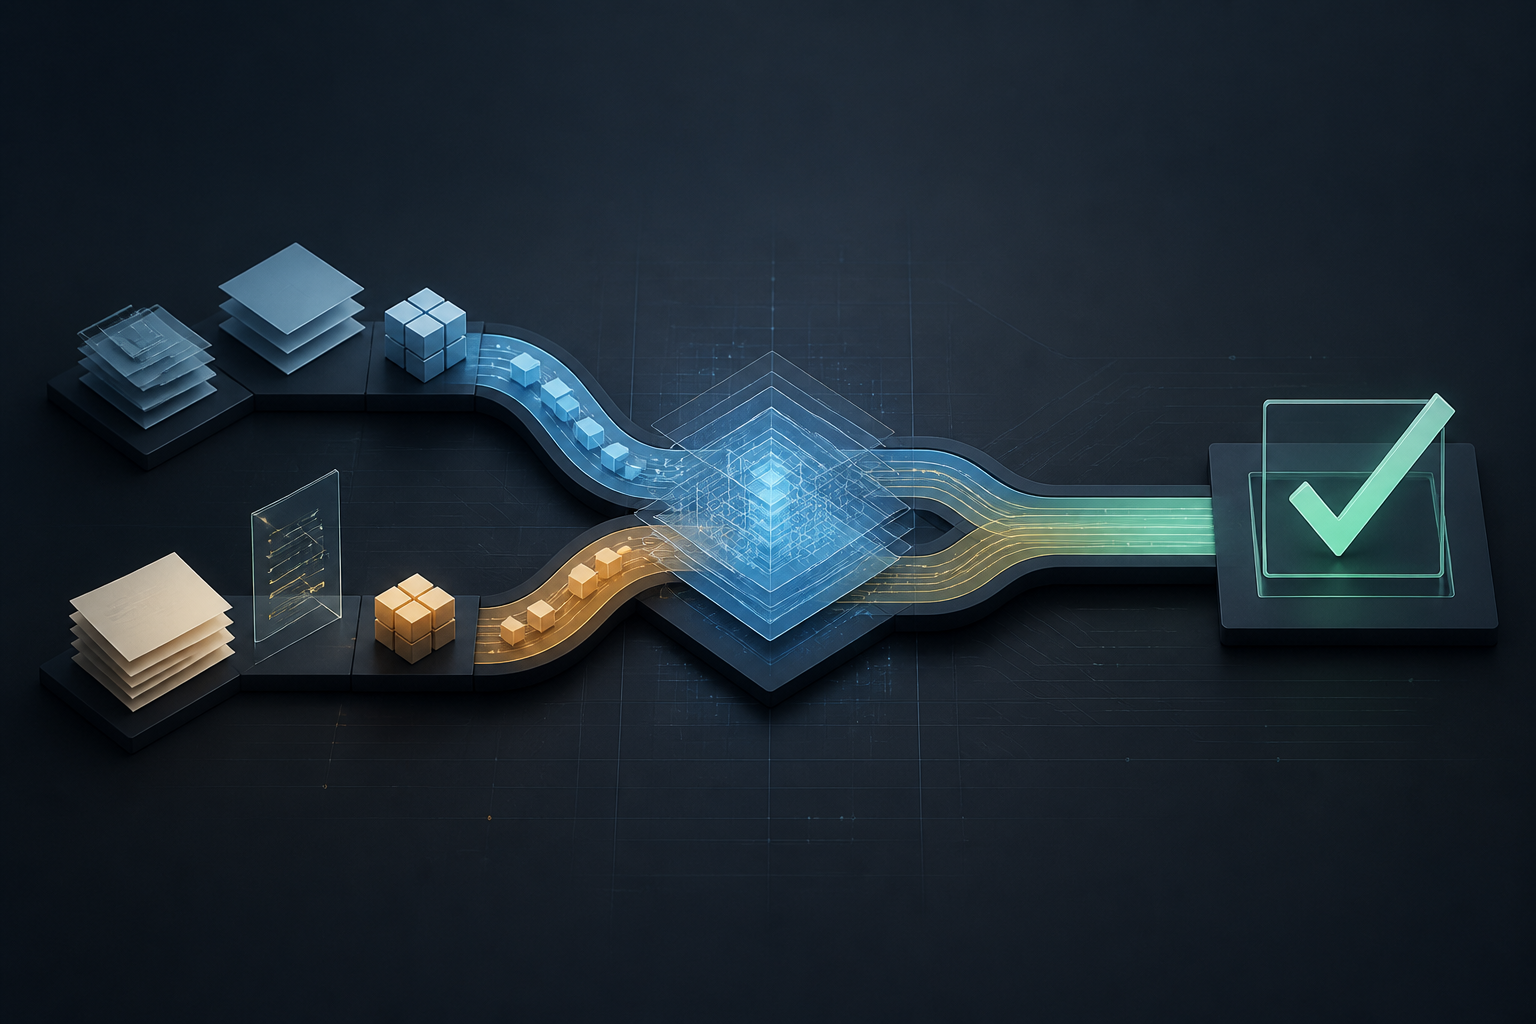
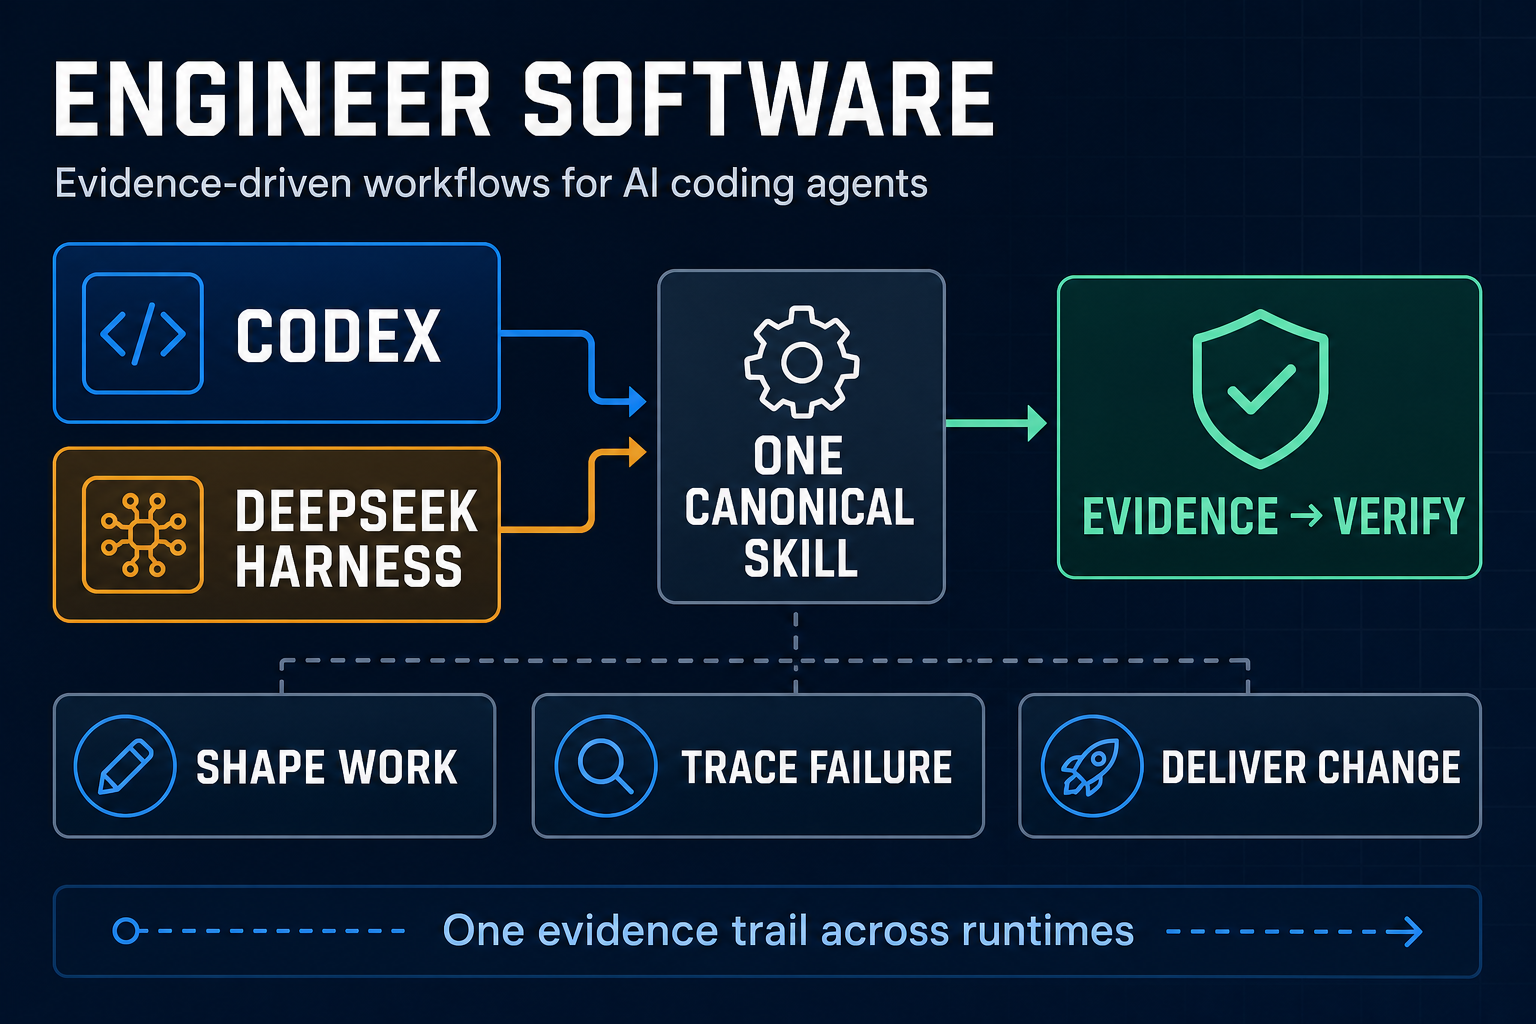
docs: update runtime-neutral cover asset

diff --git a/README.md b/README.md
@@ -10,7 +10,7 @@ structural redundancy, or draft local work items. Codex and DeepSeek Harness are
 loading paths over one canonical skill source; the workflow semantics and evidence fixtures stay
 shared.
 
-![Abstract engineering cover](plugins/engineer-software/assets/engineer-software-cover.png)
+![Engineer Software runtime-neutral workflow cover showing Codex and DeepSeek Harness feeding one canonical skill into evidence verification](plugins/engineer-software/assets/engineer-software-cover.png)
 
 ![Dual-runtime shared-core flow](docs/assets/runtime-neutral-flow.svg)
 
